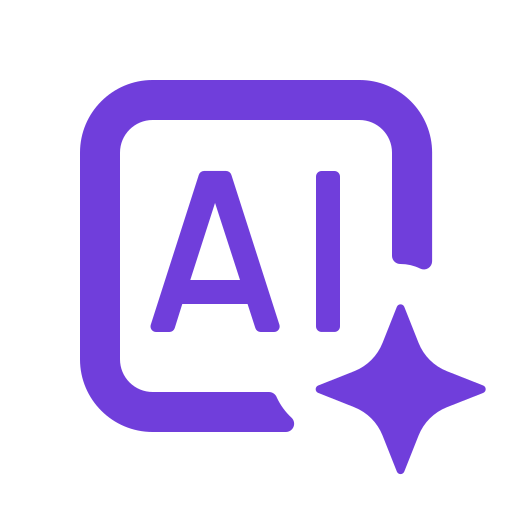
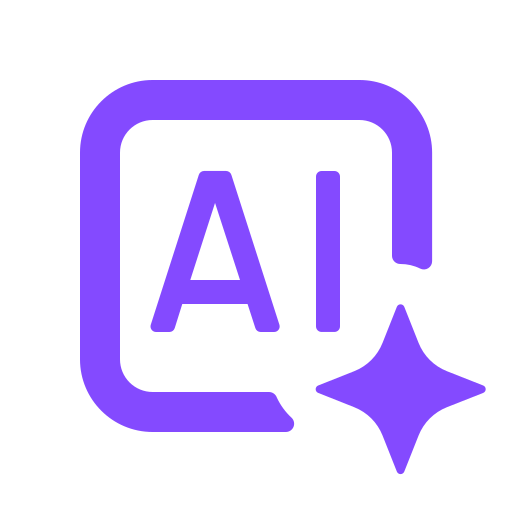
.

diff --git a/bookmark/templates/dashboard.html b/bookmark/templates/dashboard.html
@@ -14,7 +14,7 @@
         <h2 class="text-3xl font-bold">Clip</h2>
         <div class="flex">
             <span id="autofill-btn" class="bg-[#131D35] p-1 mr-2 border-custom-card md:p-1">
-                <img src="{% static 'images/ai2.png' %}" alt="ai" class="w-7 h-7 md:w-9 md:h-9" />
+                <img src="{% static 'images/ai.png' %}" alt="ai" class="w-7 h-7 md:w-9 md:h-9" />
             </span>
 
             <button id="add-openBtn" class="btn-primary text-xs text-white px-3 rounded-xl md:text-sm">
